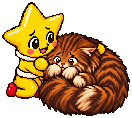
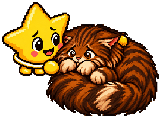
fix: 雷の日イベントの体型と光演出を修正

diff --git a/src/rendering/room.ts b/src/rendering/room.ts
@@ -54,6 +54,8 @@ import {
   getRainDropPosition,
   getThunderComfortFrame,
   RAIN_DROP_SEEDS,
+  RAIN_WINDOW_BOUNDS,
+  THUNDER_FLASH_COLOR,
   type ThunderComfortFrame,
 } from "./thunder-comfort.ts";
 
@@ -273,7 +275,11 @@ function createRainWindowLayer(app: Application): Container {
   const layer = new Container();
   layer.label = "rainWindow";
   const rain = new Container();
-  const stormShade = new Graphics().rect(22, 25, 56, 54).fill({ color: 0x243a56, alpha: 0.58 });
+  const { x, y, height } = RAIN_WINDOW_BOUNDS;
+  const stormShade = new Graphics()
+    .rect(x, y, 15, height)
+    .rect(x + 17, y, 17, height)
+    .fill({ color: 0x243a56, alpha: 0.58 });
   const drops = RAIN_DROP_SEEDS.map((seed) => {
     const drop = new Graphics()
       .moveTo(0, 0)
@@ -282,7 +288,10 @@ function createRainWindowLayer(app: Application): Container {
     rain.addChild(drop);
     return drop;
   });
-  const mask = new Graphics().rect(22, 25, 56, 54).fill(0xffffff);
+  const mask = new Graphics()
+    .rect(x, y, 15, height)
+    .rect(x + 17, y, 17, height)
+    .fill(0xffffff);
   rain.mask = mask;
   layer.addChild(stormShade, rain, mask);
 
@@ -300,7 +309,7 @@ function createRainWindowLayer(app: Application): Container {
 }
 
 function createThunderFlashLayer(app: Application, getFrame: ThunderComfortFrameProvider): Graphics {
-  const flash = new Graphics().rect(0, 0, WIDTH, BACKGROUND_HEIGHT).fill(0xc8dcff);
+  const flash = new Graphics().rect(0, 0, WIDTH, BACKGROUND_HEIGHT).fill(THUNDER_FLASH_COLOR);
   flash.label = "thunderFlash";
   flash.blendMode = "screen";
   flash.eventMode = "none";

diff --git a/tests/thunder-comfort.spec.ts b/tests/thunder-comfort.spec.ts
@@ -1,5 +1,11 @@
 import { describe, expect, it } from "vitest";
-import { getRainDropPosition, getThunderComfortFrame, RAIN_DROP_SEEDS } from "../src/rendering/thunder-comfort.ts";
+import {
+  getRainDropPosition,
+  getThunderComfortFrame,
+  RAIN_DROP_SEEDS,
+  RAIN_WINDOW_BOUNDS,
+  THUNDER_FLASH_COLOR,
+} from "../src/rendering/thunder-comfort.ts";
 
 describe("thunder comfort animation", () => {
   it("flashes, trembles, and then shows the reassurance", () => {
@@ -17,11 +23,15 @@ describe("thunder comfort animation", () => {
     for (const elapsedMs of [0, 1_000, 9_000, 80_000]) {
       for (const seed of RAIN_DROP_SEEDS) {
         const position = getRainDropPosition(seed, elapsedMs);
-        expect(position.x).toBeGreaterThanOrEqual(22);
-        expect(position.x).toBeLessThan(78);
-        expect(position.y).toBeGreaterThanOrEqual(25);
-        expect(position.y).toBeLessThan(79);
+        expect(position.x).toBeGreaterThanOrEqual(RAIN_WINDOW_BOUNDS.x);
+        expect(position.x).toBeLessThan(RAIN_WINDOW_BOUNDS.x + RAIN_WINDOW_BOUNDS.width);
+        expect(position.y).toBeGreaterThanOrEqual(RAIN_WINDOW_BOUNDS.y);
+        expect(position.y).toBeLessThan(RAIN_WINDOW_BOUNDS.y + RAIN_WINDOW_BOUNDS.height);
       }
     }
+  });
+
+  it("uses a warm yellow flash instead of a white flash", () => {
+    expect(THUNDER_FLASH_COLOR).toBe(0xffd45c);
   });
 });

diff --git a/src/rendering/thunder-comfort.ts b/src/rendering/thunder-comfort.ts
@@ -1,5 +1,14 @@
 const THUNDER_COMFORT_CYCLE_MS = 7_200;
 
+export const THUNDER_FLASH_COLOR = 0xffd45c;
+
+export const RAIN_WINDOW_BOUNDS = {
+  x: 34,
+  y: 29,
+  width: 34,
+  height: 47,
+} as const;
+
 interface FlashPulse {
   startMs: number;
   peakMs: number;
@@ -94,7 +103,7 @@ export function getThunderComfortFrame(elapsedMs: number): ThunderComfortFrame {
 export function getRainDropPosition(seed: RainDropSeed, elapsedMs: number): { x: number; y: number } {
   const distance = (elapsedMs / 1_000) * seed.speed;
   return {
-    x: 22 + loop(seed.x - distance * 0.18, 56),
-    y: 25 + loop(seed.y + distance, 54),
+    x: RAIN_WINDOW_BOUNDS.x + loop(seed.x - distance * 0.18, RAIN_WINDOW_BOUNDS.width),
+    y: RAIN_WINDOW_BOUNDS.y + loop(seed.y + distance, RAIN_WINDOW_BOUNDS.height),
   };
 }

diff --git a/docs/prototype-spec.md b/docs/prototype-spec.md
@@ -65,8 +65,8 @@
     - タツヲの配置と描画深度は別々の着席地点から解決し、家具を移動しても寝姿が追随する
     - クーンちゃんは手前の絨毯から二人を見守る
 - `大丈夫だよー`は、雷を怖がるクーンちゃんをエトキチが手前の絨毯で抱きしめる
-    - 窓の範囲内に斜めの雨を流し続ける
-    - 稲妻、震え、抱きしめ直し、「大丈夫だよー」のフキダシ、落ち着く様子を周期的に繰り返す
+    - 窓のガラス面にだけ斜めの雨を流し、カーテンより奥に見える重なり順を保つ
+    - 黄色い雷光、震え、抱きしめ直し、「大丈夫だよー」のフキダシ、落ち着く様子を周期的に繰り返す
     - 二人を一体の透過スプライトとして表示し、震えと抱きしめ直しは位置と拡縮で表現する
 - `窓辺でお昼寝`は、日の当たる窓辺へ置いた座布団の上で、読みかけの本を胸に大の字で眠る専用スプライトを表示する
     - 座布団を静止レイヤー、エトキチと本を呼吸レイヤーに分け、座布団は伸縮させない
